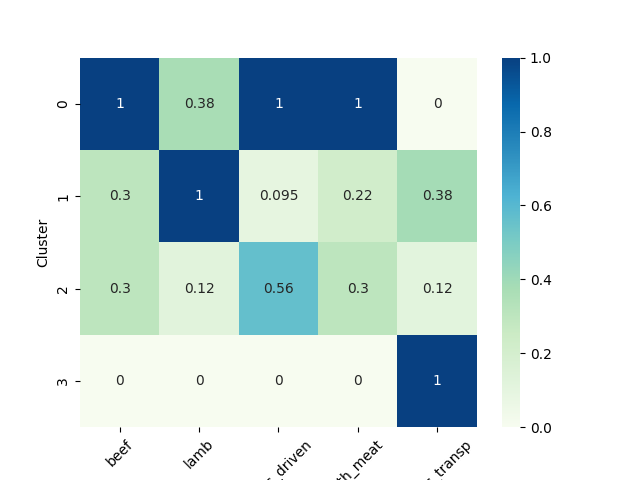
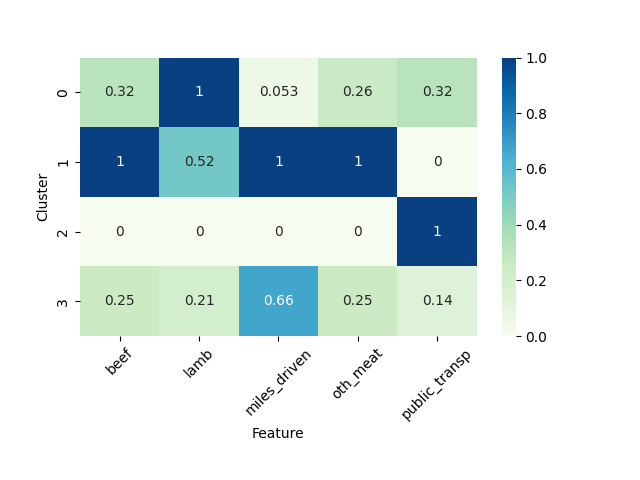
fixed scaler, heatmap size

diff --git a/myapp/scripts/cluster_input.py b/myapp/scripts/cluster_input.py
@@ -1,7 +1,7 @@
 from myapp.models import Quiz_Response, Quiz_Choice, Quiz_Question, Quiz_User
 import pandas as pd
 from sklearn.cluster import KMeans
-from sklearn.preprocessing import MinMaxScaler
+from sklearn.preprocessing import MinMaxScaler, Normalizer
 import pickle
 import seaborn as sns
 import matplotlib.pyplot as plt
@@ -16,6 +16,7 @@ class ClusteringModelManager:
         #TODO post deployment (GCP, Heroku etc) use self.model_path = os.path.join(settings.BASE_DIR, 'scripts', 'saved_model.pkl')
         self.model_path = 'myapp/ml_models/cluster_model.pkl' # static path
         self.heatmap_path = 'myapp/static/myapp/heatmap.png'
+        self.MinMaxScaler_path = 'myapp/ml_models/mmscaler.pkl'
         self.model = None
         self.cluster_labels = None
         self.df = None
@@ -64,7 +65,11 @@ class ClusteringModelManager:
         df = pd.DataFrame(df)
         df = df.drop(columns=['car_type'])
         df_input = df.reset_index(drop=True)
-        df_input = MinMaxScaler().fit_transform(df_input)
+        
+        with open(self.MinMaxScaler_path, 'rb') as file:
+            loaded_scaler = pickle.load(file)
+        
+        df_input = loaded_scaler.transform(df_input)
 
         return df_input
 
@@ -80,7 +85,10 @@ class ClusteringModelManager:
         total = df.sum(axis=1)
 
         df_input = df.reset_index(drop=True)
-        df_input = MinMaxScaler().fit_transform(df_input)
+        mmscaler = MinMaxScaler()
+        df_input = mmscaler.fit_transform(df_input)
+        with open(self.MinMaxScaler_path,'wb') as file:
+            pickle.dump(mmscaler,file)
 
         # train model
         kmeans = KMeans(n_clusters=4,random_state=0)
@@ -118,6 +126,8 @@ class ClusteringModelManager:
         plt.xticks(rotation=45)
         plt.xlabel("Feature")
         plt.ylabel("Cluster")
+        plt.rcParams["figure.figsize"] = (6,11)
+        plt.subplots_adjust(bottom=0.3) 
         # plt.show()
         plt.savefig(self.heatmap_path)
 
@@ -143,13 +153,3 @@ class ClusteringModelManager:
 
         return user_cluster[0]
 
-    # # save heatmap locally to later pass into template
-    # def get_heatmap():
-    #     averages = df.groupby('cluster_label').mean()
-    #     # print(averages)
-    #     averages_scaled = MinMaxScaler().fit_transform(averages)
-    #     sns.heatmap(averages_scaled, annot=True, xticklabels=averages.columns.tolist() ,cmap='GnBu')
-    #     plt.xticks(rotation=45)
-    #     plt.xlabel("Feature")
-    #     plt.ylabel("Cluster")
-    #     plt.show()
